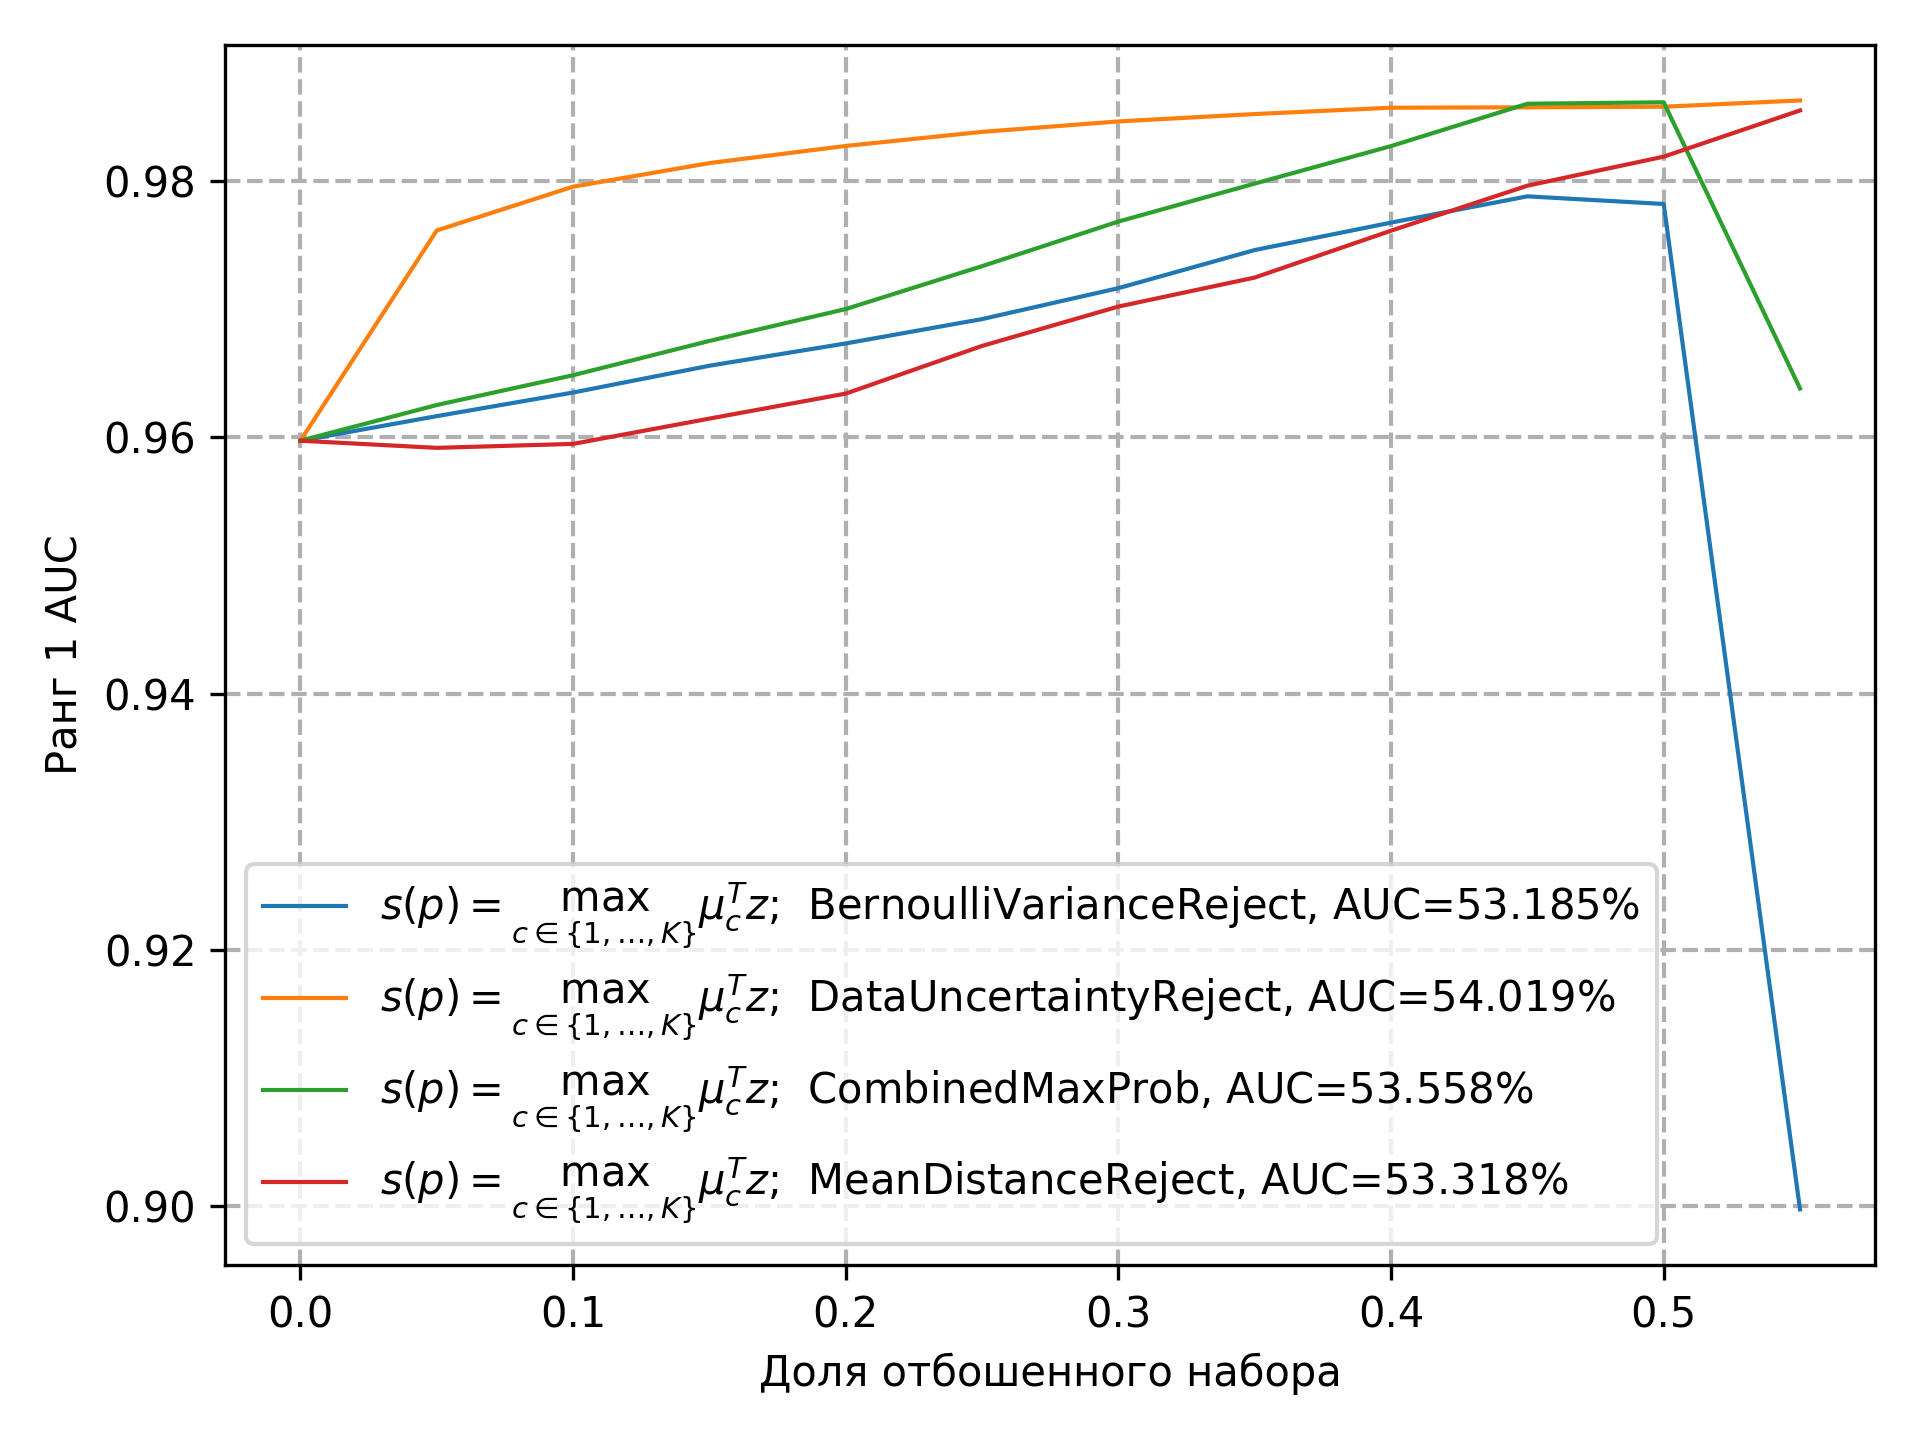
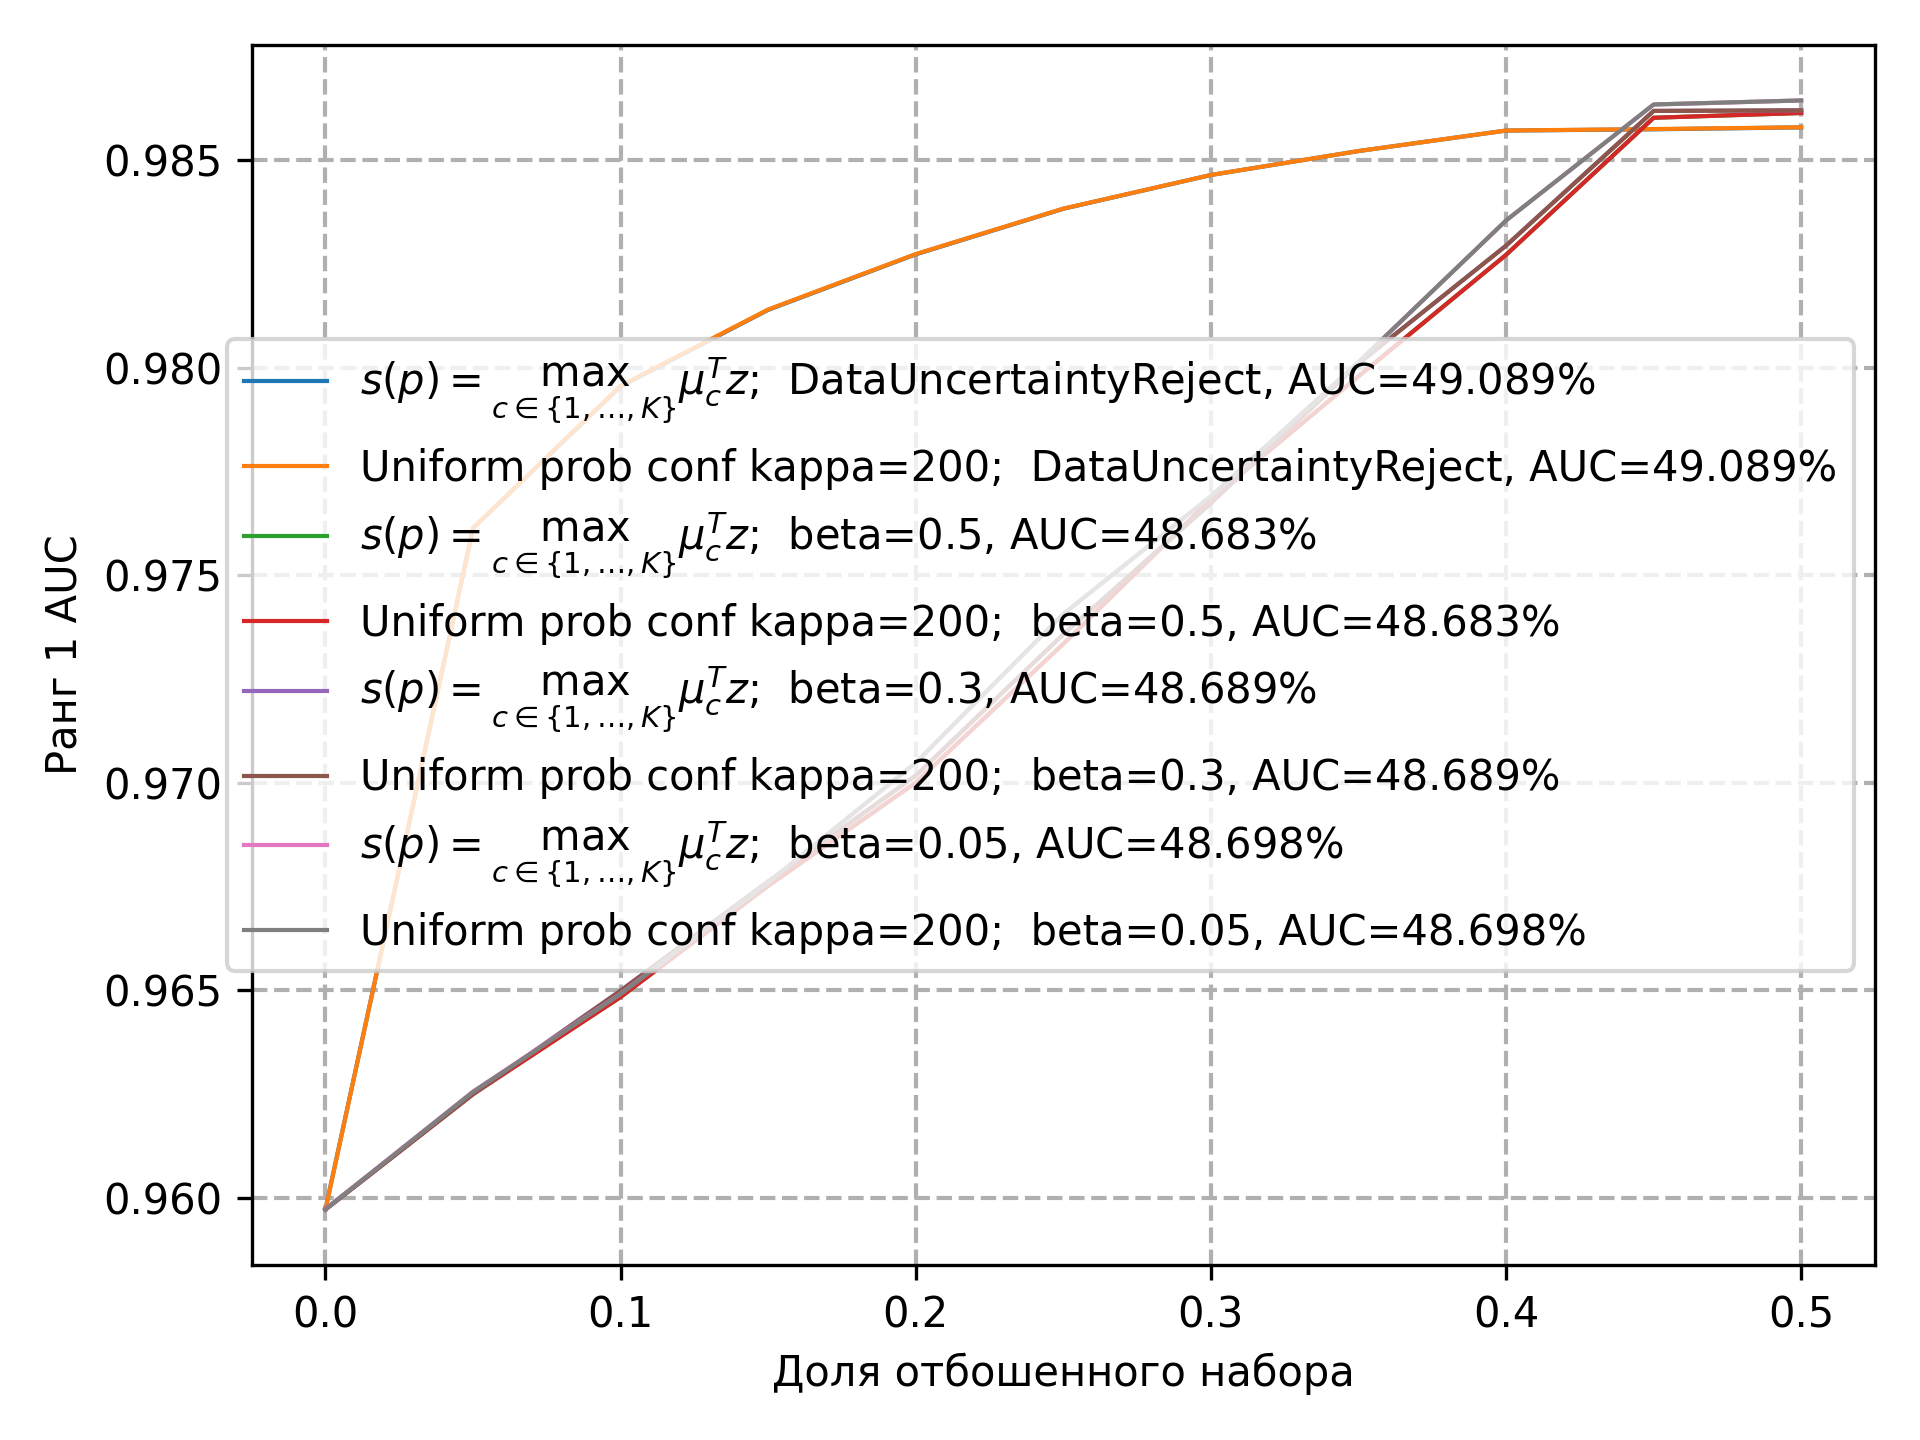
unc exp

diff --git a/evaluation/ijb_evals.py b/evaluation/ijb_evals.py
@@ -106,14 +106,14 @@ def create_rejection_plots(
             model_names.append(pretty_names[model_name])
             scores.append((metrics["fractions"], metrics[metric_name]))
 
-        fig = plot_rejection_scores(
-            scores=scores,
-            names=model_names,
-            y_label=f"Ранг {rank} AUC",
-        )
-        fig.savefig(
-            out_dir / f"rank_{rank}_{metric_name.split('_')[-1]}_rejection.png", dpi=300
-        )
+        # fig = plot_rejection_scores(
+        #     scores=scores,
+        #     names=model_names,
+        #     y_label=f"Ранг {rank} AUC",
+        # )
+        # fig.savefig(
+        #     out_dir / f"rank_{rank}_{metric_name.split('_')[-1]}_rejection.png", dpi=300
+        # )
 
     # create unified plot of different rejection metrics for each rank
     rank_to_unc_metrics = {}

diff --git a/evaluation/uncertainty_metrics.py b/evaluation/uncertainty_metrics.py
@@ -157,7 +157,7 @@ class CombinedMaxProb:
         unc_score = -np.max(all_classes_log_prob, axis=1)
         unc_metric_name = (
             self.__class__.__name__
-        )
+        ) +"_beta="+ str(self.beta)
         #unc_metric_name = r"$m(p) = \max_{c\in {1,\dots,K+1}}p(c|z)$"
         unc_metric = get_reject_metrics(
             unc_metric_name,
